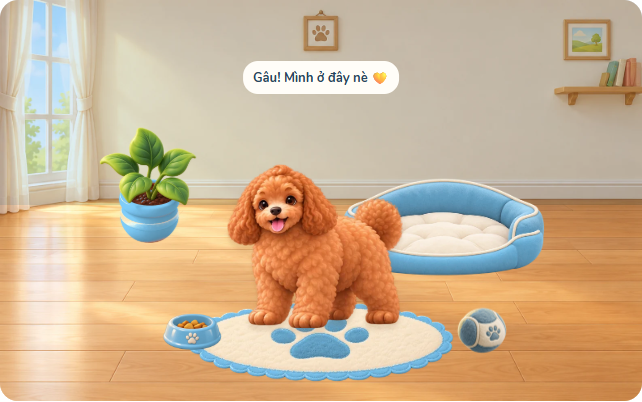
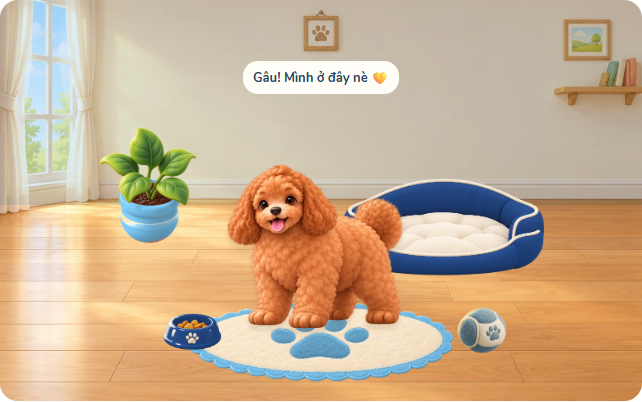
Make paid blue bed and bowl navy and verify colour contrast

Changed region(s): [[0.5919, 0.4478, 0.8723, 0.6866], [0.2492, 0.7761, 0.3427, 0.8955], [0.5296, 0.5075, 0.5607, 0.5373]]

diff --git a/tests/pet-room.test.js b/tests/pet-room.test.js
@@ -83,7 +83,12 @@ test('every paid item has real artwork, bed layers keep the same canvas',()=>{
  }
  const report=JSON.parse(fs.readFileSync(path.join(__dirname,'../docs/pet-room-recolor-payload-v1.json'),'utf8'));
  assert.equal(report.length,12);
- for(const entry of report){assert.ok(entry.alphaExact);assert.ok(entry.valueExact);assert.ok(Math.max(...entry.size)<=512);assert.ok(entry.changedPixels>100);}
- for(const colour of ['blue','pink'])assert.deepEqual(report.find(x=>x.file==='bed-'+colour+'-v1.webp').size,report.find(x=>x.file==='bed-front-'+colour+'-v1.webp').size);
+ for(const item of Object.values(b.R.ITEMS).filter(x=>!x.free&&x.slot!=='wall')){
+  assert.ok(report.some(x=>x.file===path.basename(item.img)),item.id+' uses a colour-tested paid asset');
+ }
+ assert.ok(b.R.ITEMS['bed-blue'].img.endsWith('bed-blue-navy-v1.webp'));
+ assert.ok(b.R.ITEMS['bowl-blue'].img.endsWith('bowl-blue-navy-v1.webp'));
+ for(const entry of report){assert.ok(entry.alphaExact);assert.ok(entry.valueExact||entry.navy);assert.ok(Math.max(...entry.size)<=512);assert.ok(entry.changedPixels>100);}
+ for(const colour of ['blue-navy','pink'])assert.deepEqual(report.find(x=>x.file==='bed-'+colour+'-v1.webp').size,report.find(x=>x.file==='bed-front-'+colour+'-v1.webp').size);
 });
 console.log(count+' room tests passed');

diff --git a/index.html b/index.html
@@ -371,10 +371,10 @@
   <script src="js/skill-report.js?v=20261007c"></script>
   <script src="js/parent-dashboard.js?v=20261007c"></script>
   <script src="js/cloud.js?v=20261007c"></script>
-  <link rel="stylesheet" href="pet.css?v=20261007room4" />
-  <script src="js/pet-room.js?v=20261007room4"></script>
-  <script src="js/pet.js?v=20261007room4"></script>
-  <script src="js/pet-view.js?v=20261007room4"></script>
+  <link rel="stylesheet" href="pet.css?v=20261007room5" />
+  <script src="js/pet-room.js?v=20261007room5"></script>
+  <script src="js/pet.js?v=20261007room5"></script>
+  <script src="js/pet-view.js?v=20261007room5"></script>
   <script src="js/app.js?v=20261007pet1"></script>
   <script src="js/today.js?v=20261007c"></script>
   <script src="js/guest-flow-guard.js?v=20261007c"></script>

diff --git a/js/pet-room.js b/js/pet-room.js
@@ -111,6 +111,8 @@ for(const slot of ['bed','rug','bowl','toy','plant'])for(const colour of ['defau
   const item=PetRoom.ITEMS[slot+'-'+colour];
   item.img='assets/pet/room/'+slot+'-'+colour+'-v1.webp';
   if(slot==='bed')item.frontImg='assets/pet/room/bed-front'+(colour==='default'?'':'-'+colour)+'-v1.webp';
+  if(colour==='blue'&&(slot==='bed'||slot==='bowl'))item.img='assets/pet/room/'+slot+'-blue-navy-v1.webp';
+  if(colour==='blue'&&slot==='bed')item.frontImg='assets/pet/room/bed-front-blue-navy-v1.webp';
 }
 // Wall is a colour overlay, not a physical prop sprite; expose its underlying painted asset too.
 for(const colour of ['default','blue','pink'])PetRoom.ITEMS['wall-'+colour].img=PetRoom.TEMPLATES['room-cozy-v1'].background.img;

diff --git a/tests/pet-room-colors.test.py b/tests/pet-room-colors.test.py
@@ -1,0 +1,55 @@
+"""Compare actual delivered WebP pixels, not recolour metadata. Run with bundled Python/Pillow."""
+import colorsys, json, math
+from pathlib import Path
+from PIL import Image
+
+root=Path(__file__).resolve().parents[1]
+assets=root/'assets/pet/room'
+report=json.loads((root/'docs/pet-room-recolor-payload-v1.json').read_text(encoding='utf-8'))
+results=[]
+
+def difference(base, paid):
+    assert base.size==paid.size
+    assert base.getchannel('A').tobytes()==paid.getchannel('A').tobytes(), 'geometry/alpha changed'
+    pairs=[(a,b) for a,b in zip(base.get_flattened_data(),paid.get_flattened_data()) if a[3]>=240]
+    return sum(math.sqrt(sum((a[i]-b[i])**2 for i in range(3))/3) for a,b in pairs)/len(pairs)
+
+def material_difference(base,paid,slot):
+    values=[]
+    for a,b in zip(base.get_flattened_data(),paid.get_flattened_data()):
+        h,s,v=colorsys.rgb_to_hsv(*(x/255 for x in a[:3]))
+        if a[3]<240:continue
+        hue=h*360
+        selected=(slot in ['bed','bed-front','bowl'] and 175<=hue<=245 and s>.20 or
+                  slot=='rug' and 8<=hue<=55 and s>.30 or
+                  slot=='toy' and 48<=hue<=165 and s>.12 or
+                  slot=='plant' and 5<=hue<=40 and s>.45 and v>.68)
+        if selected:
+            nh,ns,nv=colorsys.rgb_to_hsv(*(x/255 for x in b[:3]))
+            dh=abs(nh-h)*360
+            values.append((min(dh,360-dh),abs(nv-v)))
+    assert len(values)>100,'missing material sample'
+    return {'hueDegrees':sum(p[0] for p in values)/len(values),'valueDelta':sum(p[1] for p in values)/len(values)}
+
+for entry in report:
+    default_name=entry['source'].replace('.png','.webp')
+    base=Image.open(assets/default_name).convert('RGBA')
+    paid=Image.open(assets/entry['file']).convert('RGBA')
+    score=difference(base,paid)
+    # Do not penalise deliberately unchanged cream padding/leaf area: compare coloured material too.
+    slot=entry['source'].replace('-default-v1.png','').replace('-v1.png','')
+    material_score=material_difference(base,paid,slot)
+    assert score>=8 and (material_score['hueDegrees']>=30 or material_score['valueDelta']>=.12), (entry['file'],'too similar to free item',score,material_score)
+    if entry.get('navy'):
+        ratios=[]
+        for a,b in zip(base.get_flattened_data(),paid.get_flattened_data()):
+            h,s,v=colorsys.rgb_to_hsv(*(x/255 for x in a[:3]))
+            if a[3]>=240 and 175<=h*360<=245 and s>.20 and v>.15:
+                ratios.append(max(b[:3])/max(a[:3]))
+        ratio=sum(ratios)/len(ratios)
+        assert ratio<.70,(entry['file'],'navy must be visibly darker',ratio)
+    assert difference(base,base)==0, 'negative control: copying default must fail threshold'
+    assert material_difference(base,base,slot)=={'hueDegrees':0,'valueDelta':0}
+    results.append({'file':entry['file'],'meanRgbDistance':round(score,2),**{k:round(v,3) for k,v in material_score.items()}})
+print(json.dumps(results,indent=2))
+print('12 paid layers differ from default; navy is darker; alpha/geometry unchanged')

diff --git a/tools/recolor_pet_room.py b/tools/recolor_pet_room.py
@@ -24,6 +24,7 @@ for slot in ['bed', 'bed-front', 'rug', 'bowl', 'toy', 'plant']:
     base = original.copy()
     base.thumbnail((512, 512), Image.Resampling.LANCZOS)
     for colour in ['blue', 'pink']:
+        navy = colour == 'blue' and slot in ['bed','bed-front','bowl']
         pixels = []
         changed = 0
         for r,g,b,a in base.get_flattened_data():
@@ -43,11 +44,14 @@ for slot in ['bed', 'bed-front', 'rug', 'bowl', 'toy', 'plant']:
             if mask:
                 target_h = (202 if colour == 'blue' else 344)/360
                 target_s = min(.50 if colour=='blue' else .40,max(.22,s*(1.25 if colour=='blue' else .85)))
-                nr,ng,nb = colorsys.hsv_to_rgb(target_h,target_s,v)
+                if navy:target_h,target_s=218/360,min(.82,.65+s*.2)
+                target_v=v*(.62 if navy else 1)
+                nr,ng,nb = colorsys.hsv_to_rgb(target_h,target_s,target_v)
                 rgb = tuple(round(c*(1-mask)+n*255*mask) for c,n in zip((r,g,b),(nr,ng,nb)))
                 # Feather hue selection without dimming highlights along the mask edge.
                 peak=max(rgb)
-                if peak:rgb=tuple(round(c*max(r,g,b)/peak) for c in rgb)
+                wanted_peak=max(r,g,b)*(1-mask*(.38 if navy else 0))
+                if peak:rgb=tuple(round(c*wanted_peak/peak) for c in rgb)
                 pixels.append((*rgb,a))
                 changed += rgb != (r,g,b)
             else:
@@ -56,14 +60,15 @@ for slot in ['bed', 'bed-front', 'rug', 'bowl', 'toy', 'plant']:
         im = Image.new('RGBA',base.size)
         im.putdata(pixels)
         assert im.getchannel('A').tobytes() == base.getchannel('A').tobytes()
-        assert all(max(old[:3])==max(new[:3]) for old,new in zip(base.get_flattened_data(),pixels)), 'painted brightness changed'
-        name = slot+'-'+colour+'-v1.webp'
+        if not navy:
+            assert all(max(old[:3])==max(new[:3]) for old,new in zip(base.get_flattened_data(),pixels)), 'painted brightness changed'
+        name = slot+'-'+colour+('-navy' if navy else '')+'-v1.webp'
         dest = out / name
         im.save(dest,'WEBP',quality=88,method=6)
         decoded = Image.open(dest).convert('RGBA')
         assert decoded.size == base.size
         assert decoded.getchannel('A').tobytes() == base.getchannel('A').tobytes()
         report.append({'file':name,'size':list(base.size),'bytes':dest.stat().st_size,
-                       'changedPixels':changed,'alphaExact':True,'valueExact':True,'source':stem+'.png'})
+                       'changedPixels':changed,'alphaExact':True,'valueExact':not navy,'navy':navy,'source':stem+'.png'})
 (root / 'docs/pet-room-recolor-payload-v1.json').write_text(json.dumps(report,indent=2),encoding='utf-8')
 print(json.dumps(report,indent=2))

diff --git a/docs/phong-cun-mau-v1.md b/docs/phong-cun-mau-v1.md
@@ -12,7 +12,7 @@ Một phòng tường kem, sàn gỗ, cửa sổ bên trái; tranh/kệ ở mép
 
 Hình dùng thật trên web ở assets/pet/room: nền ≤1600px, sáu lớp đồ ≤512px. Tổng 225394 byte (nền và năm món; giường hai ảnh). WebP giữ chính xác alpha sau resize; bed/front giữ cùng canvas 512×287 để khớp nhau. PNG gốc giữ nguyên ở output/pet-room/masters-v1 ngoài checkout. tools/convert_room_webp.py chỉ resize/encode, không vẽ lại hoặc tách hình. Nguồn từng ảnh ghi trong pet-room-art-sources-v1.json.
 
-Đồ mặc định và toàn bộ đồ trả sao xanh/hồng đều có hình WebP. Biến thể được recolor xác định từ PNG mặc định đã duyệt bằng tools/recolor_pet_room.py, không gọi imagegen thêm. Chỉ vùng vật liệu có màu đổi hue/saturation; phần kem, thức ăn và lá cây giữ nguyên. Độ sáng HSV value trước encode và alpha sau encode được kiểm tra giữ chính xác. Hai lớp giường giữ cùng canvas. Màu tường đã mua vẫn phủ màu lên vùng tường; sàn và đồ không bị đổi màu. Không đổi id, giá, hồ sơ, phụ kiện hoặc luật chơi.
+Đồ mặc định và toàn bộ đồ trả sao xanh/hồng đều có hình WebP. Biến thể được recolor xác định từ PNG mặc định đã duyệt bằng tools/recolor_pet_room.py, không gọi imagegen thêm. Chỉ vùng vật liệu có màu đổi hue/saturation; phần kem, thức ăn và lá cây giữ nguyên. Alpha sau encode giữ chính xác. Biến thể thông thường giữ HSV value; riêng giường/bát navy giảm value theo tỉ lệ để màu đậm rõ, giữ tương quan sáng tối của texture và phần kem. Hai lớp giường giữ cùng canvas. Màu tường đã mua vẫn phủ màu lên vùng tường; sàn và đồ không bị đổi màu. Không đổi id, giá, hồ sơ, phụ kiện hoặc luật chơi.
 
 Desktop walkArea chân x160–850, bị chặn thêm theo hộp cún từng giai đoạn; mobile giữ x310–690. Resize chỉ đổi viewport/vùng đi, không ghi dữ liệu hoặc chào lại.
 
@@ -29,3 +29,11 @@ PR này chờ Nam duyệt hình và Claude review trước merge. Biến thể x
 ![Full hồng 1280px](pet-room-full-pink-1280.png)
 
 Test kiểm tra mọi item trả sao có img, bed có frontImg; wall dùng asset nền và lớp phủ màu. Luồng browser mua thật từng món, kiểm tra ảnh tải được và không dùng SVG/emoji/CSS placeholder, ở cả 1280px và 390px. Chỉ món đang đặt được vẽ; không tải trước toàn bộ bộ màu. Giữ nguyên giá 50 sao và id đang bán trên main.
+
+## Giường/bát xanh trả sao — navy
+
+Đồ miễn phí giữ nguyên; id bed-blue/bowl-blue giữ giá 50 sao nhưng trỏ ảnh navy mới. Hai lớp giường cùng phép đổi màu để khớp viền; bát giữ thức ăn và logo kem. Không gọi imagegen.
+
+So sánh ở viewport 1280px: ảnh bộ mặc định ở đầu tài liệu và full xanh ở trên đã cập nhật navy.
+
+Chạy tests/pet-room-colors.test.py bằng Python/Pillow: so trực tiếp WebP với default cùng canvas/alpha. Mỗi lớp trả sao cần mean RGB distance toàn vật thể ≥8, và tại vùng vật liệu phải lệch hue trung bình ≥30° hoặc value trung bình ≥0.12. Navy còn phải có value vùng xanh dưới 70% bản default. Cream/lá cây được loại khỏi mẫu vật liệu; phép so toàn ảnh vẫn tính chúng. Bản sao default có mọi độ lệch bằng 0, không đạt tiêu chí.

diff --git a/CHANGELOG.md b/CHANGELOG.md
@@ -1,6 +1,7 @@
 # CHANGELOG — Vương Quốc Thỏ (ontap-lop3)
 
 ## 2026-10-07 — Phòng cún mẫu (nhánh pet-room-art, chờ duyệt hình)
+- Review tiếp: giường/bát xanh trả sao chuyển sang navy, đồ cơ bản giữ nguyên; id/giá không đổi. Test so trực tiếp màu WebP với default cho mọi món, kèm ảnh so default/full xanh 1280px.
 - Review: toàn bộ đồ trả sao xanh/hồng có hình recolor từ default, giữ texture/độ sáng/alpha, không imagegen thêm; giường gồm hai lớp cùng canvas. Thêm test mọi item có ảnh và mua full bộ trên web, kèm ảnh 1280px xanh/hồng.
 - Vẽ nền tường/sàn gỗ/cửa sổ và năm món cơ bản, giường hai lớp; WebP khoảng 225KB, chỉ tải đồ đang đặt. Tách vùng đi wide/narrow; giữ id/giá/dữ liệu cũ và màu tường đã mua. Có ảnh 390px/1280px để Nam duyệt; chưa làm biến thể màu hoặc phụ kiện.
 
